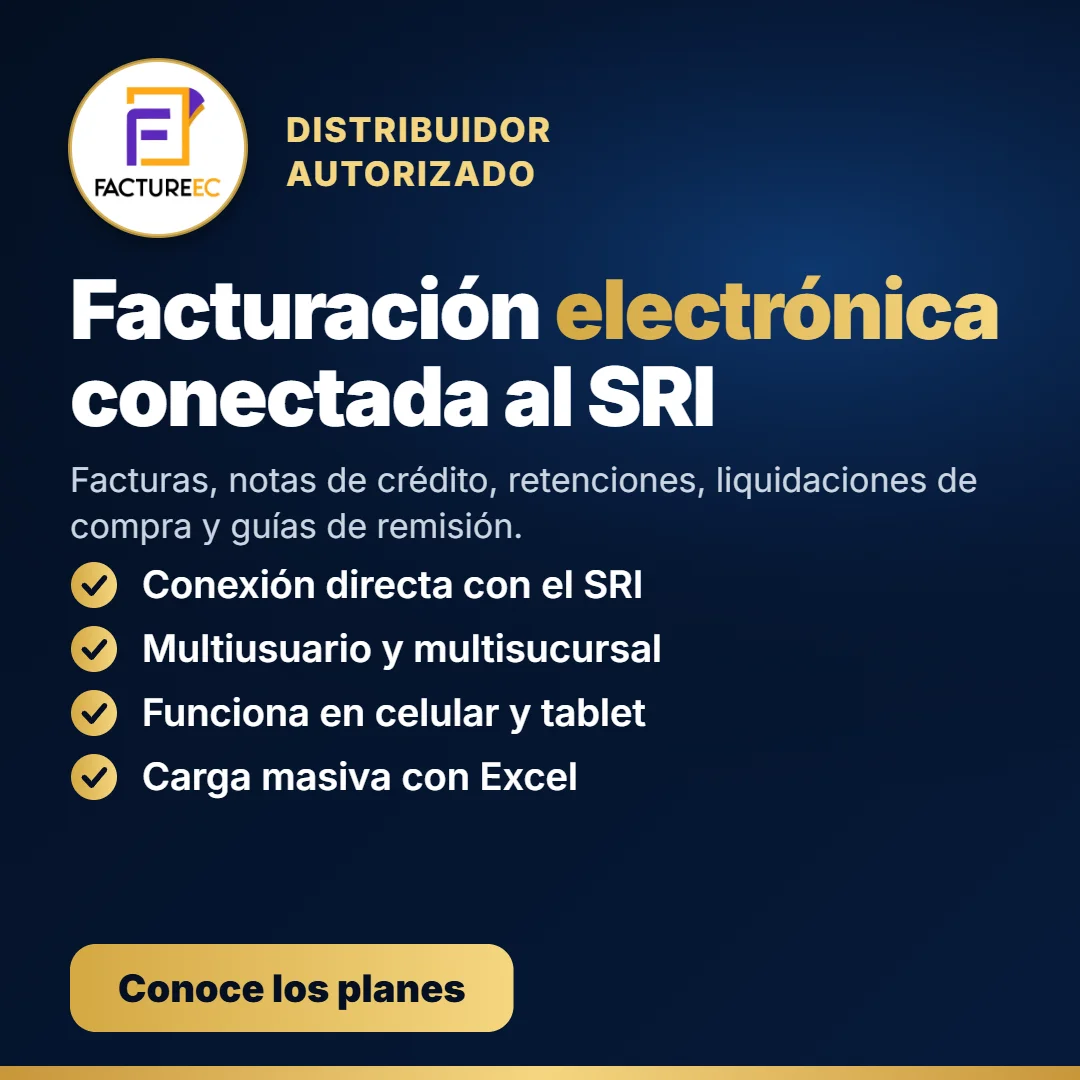
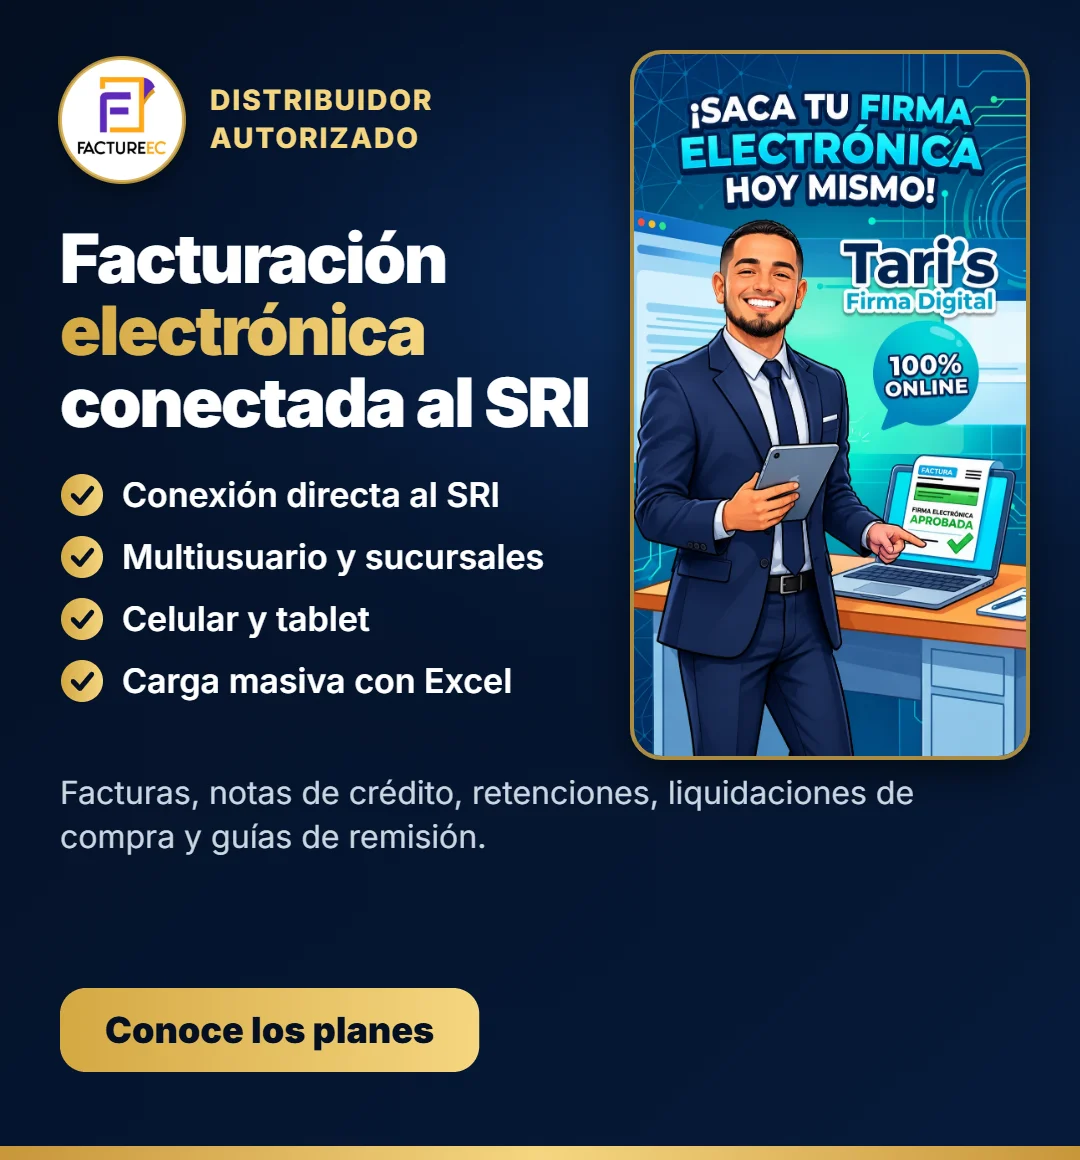
feat: add the character to the P12 and Factureec flyers, with a tablet image
Redesign the two last flyers with the full (uncropped) character image
and the same composition on every screen size: icon with "Distribuidor
autorizado", headline, checklist, character on the right and a button
row.

- img/flyers: new desktop, tablet and mobile images for firma-p12 and
  factureec-facturacion (all under 250 KB)
- script.js: optional flyer.imagenTablet; renderFlyerSlide adds a
  <source media="(max-width: 1024px)"> after the mobile one, and is now
  exported for tests
- tests: validate imagenTablet files and paths, and check the order of
  the mobile/tablet sources
- README: document imagenTablet

diff --git a/script.js b/script.js
@@ -114,6 +114,7 @@ const siteData = {
             id: 'firma-p12',
             tipo: 'informativo',
             imagen: 'img/flyers/firma-p12.webp',
+            imagenTablet: 'img/flyers/firma-p12-tablet.webp',
             imagenMovil: 'img/flyers/firma-p12-movil.webp',
             alt: 'Firma electrónica en archivo P12. Úsala para facturar, firmar documentos y hacer trámites en el SRI, Quipux y FirmaEC. Distribuidor autorizado.',
             destino: { tipo: 'pagina', pagina: 'firma.html#firma-electronica' }
@@ -122,6 +123,7 @@ const siteData = {
             id: 'factureec-facturacion',
             tipo: 'informativo',
             imagen: 'img/flyers/factureec-facturacion.webp',
+            imagenTablet: 'img/flyers/factureec-facturacion-tablet.webp',
             imagenMovil: 'img/flyers/factureec-facturacion-movil.webp',
             alt: 'Facturación electrónica conectada al SRI con Factureec: facturas, notas de crédito, retenciones y guías de remisión. Distribuidor autorizado.',
             destino: { tipo: 'pagina', pagina: 'facturacion.html#facturacion' }
@@ -1261,12 +1263,16 @@ function renderPromotionSlide({ promo, variantes }) {
  */
 function renderFlyerSlide({ flyer }, esPrimera) {
     const carga = esPrimera ? 'fetchpriority="high"' : 'loading="lazy"';
+    // El navegador usa la primera <source> que cumple: móvil (≤ 640 px), luego tablet (≤ 1024 px)
     const movil = flyer.imagenMovil
         ? `<source media="(max-width: 640px)" srcset="${escapeHtml(flyer.imagenMovil)}">`
         : '';
+    const tablet = flyer.imagenTablet
+        ? `<source media="(max-width: 1024px)" srcset="${escapeHtml(flyer.imagenTablet)}">`
+        : '';
     const imagen = `
             <picture>
-                ${movil}
+                ${movil}${tablet}
                 <img src="${escapeHtml(flyer.imagen)}" alt="${escapeHtml(flyer.alt)}" width="1920" height="600" ${carga} class="block w-full h-auto">
             </picture>`;
     const destino = flyer.destino;
@@ -1606,6 +1612,7 @@ if (typeof module !== 'undefined' && module.exports) {
         getActiveVariants,
         getActiveFlyers,
         isValidFlyerPage,
+        renderFlyerSlide,
         buildCarouselSlides,
         getNextIndex,
         formatSlideLabel,

diff --git a/tests/carousel.test.js b/tests/carousel.test.js
@@ -4,7 +4,7 @@
 const { test } = require('node:test');
 const assert = require('node:assert/strict');
 const {
-    siteData, buildCarouselSlides, getActiveFlyers, isValidFlyerPage, getNextIndex, formatSlideLabel
+    siteData, buildCarouselSlides, getActiveFlyers, isValidFlyerPage, getNextIndex, formatSlideLabel, renderFlyerSlide
 } = require('../script.js');
 
 const promo = siteData.promociones[0]; // 2026-11-09 → 2026-11-30
@@ -36,6 +36,22 @@ test('buildCarouselSlides: un destino fuera de la lista blanca se descarta y el 
     const externo = buildCarouselSlides([], flyers, vigente).find(d => d.flyer.id === 'externo');
     assert.equal(externo.flyer.destino, undefined);
     assert.equal(flyers[2].destino.pagina, 'https://otro.sitio', 'no modifica los datos originales');
+});
+
+test('renderFlyerSlide: usa la imagen móvil hasta 640 px, la de tablet hasta 1024 px y la de escritorio en lo demás', () => {
+    const flyer = { id: 'x', tipo: 'informativo', imagen: 'img/flyers/d.webp', imagenTablet: 'img/flyers/t.webp',
+        imagenMovil: 'img/flyers/m.webp', alt: 'Flyer de prueba con tres tamaños' };
+    const html = renderFlyerSlide({ flyer }, false);
+    const movil = html.indexOf('(max-width: 640px)" srcset="img/flyers/m.webp"');
+    const tablet = html.indexOf('(max-width: 1024px)" srcset="img/flyers/t.webp"');
+    assert.ok(movil !== -1 && tablet !== -1, 'faltan las fuentes móvil o tablet');
+    assert.ok(movil < tablet, 'la fuente móvil debe ir antes que la de tablet (el navegador usa la primera que cumple)');
+    assert.ok(html.includes('<img src="img/flyers/d.webp"'), 'la imagen de escritorio es el src');
+});
+
+test('renderFlyerSlide: sin imagenTablet no agrega la fuente de tablet', () => {
+    const flyer = { id: 'y', tipo: 'informativo', imagen: 'img/flyers/d.webp', imagenMovil: 'img/flyers/m.webp', alt: 'Flyer de prueba sin tablet' };
+    assert.ok(!renderFlyerSlide({ flyer }, false).includes('1024px'));
 });
 
 test('getActiveFlyers respeta inicio y fin en hora de Ecuador (data-model.md → Flyer.inicio, Flyer.fin)', () => {

diff --git a/tests/data.test.js b/tests/data.test.js
@@ -193,6 +193,7 @@ function problemasDeFlyer(flyer, ids) {
     if (!['promocion', 'informativo'].includes(flyer.tipo)) p.push(`${id}: tipo debe ser 'promocion' o 'informativo'`);
     if (!ruta.test(flyer.imagen || '')) p.push(`${id}: imagen debe estar en img/flyers/ y ser .webp, .avif o .svg`);
     if (flyer.imagenMovil !== undefined && !ruta.test(flyer.imagenMovil)) p.push(`${id}: imagenMovil inválida`);
+    if (flyer.imagenTablet !== undefined && !ruta.test(flyer.imagenTablet)) p.push(`${id}: imagenTablet inválida`);
     if (typeof flyer.alt !== 'string' || flyer.alt.length < 10 || flyer.alt.length > 200) p.push(`${id}: alt de 10 a 200 caracteres`);
     for (const campo of ['inicio', 'fin']) {
         if (flyer[campo] !== undefined && !FECHA.test(flyer[campo])) p.push(`${id}: ${campo} debe ser AAAA-MM-DD`);

diff --git a/tests/flyers.test.js b/tests/flyers.test.js
@@ -16,8 +16,8 @@ test('hay al menos un flyer informativo permanente (respaldo del carrusel sin Ja
 
 for (const flyer of siteData.flyers) {
     test(`flyer ${flyer.id}: imágenes WebP/AVIF/SVG existentes de ≤ 250 KB`, () => {
-        for (const campo of ['imagen', 'imagenMovil']) {
-            if (campo === 'imagenMovil' && flyer.imagenMovil === undefined) continue;
+        for (const campo of ['imagen', 'imagenTablet', 'imagenMovil']) {
+            if (campo !== 'imagen' && flyer[campo] === undefined) continue;
             const ruta = flyer[campo];
             assert.match(ruta, /^img\/flyers\/[a-z0-9-]+\.(webp|avif|svg)$/, `${campo}: ${ruta}`);
             const archivo = join(raiz, ruta);

diff --git a/README.md b/README.md
@@ -63,8 +63,9 @@ renderAttentionStatus(new Date('2026-11-28T14:30:00-05:00')); // otra hora para 
 El carrusel de la página principal muestra primero las promociones vigentes y después los
 flyers de `siteData.flyers`. Para publicar uno no hace falta tocar el HTML:
 
-1. **Prepara la imagen**: 1920×600 px para escritorio (y, si quieres, 1080×1080 px para móvil),
-   en **WebP** y de **250 KB como máximo**. Puedes convertirla con, por ejemplo, squoosh.app.
+1. **Prepara la imagen**: 1920×600 px para escritorio (y, si quieres, una versión para tablet,
+   de 641 a 1024 px de ancho, y otra para móvil, de hasta 640 px; pueden tener cualquier
+   proporción, por ejemplo 1080×1080 px), en **WebP** y de **250 KB como máximo**. Puedes convertirla con, por ejemplo, squoosh.app.
    **La imagen no puede llevar precios ni montos**: si la promoción tiene precio, agrégala en
    `siteData.promociones`, que genera su propia diapositiva con los precios del sitio.
 2. **Copia la imagen** a `img/flyers/`, con un nombre en minúsculas y guiones
@@ -76,6 +77,7 @@ flyers de `siteData.flyers`. Para publicar uno no hace falta tocar el HTML:
        id: 'feriado-diciembre',
        tipo: 'promocion',          // 'promocion' (inicio y fin obligatorios) o 'informativo'
        imagen: 'img/flyers/feriado-diciembre.webp',
+       imagenTablet: 'img/flyers/feriado-diciembre-tablet.webp', // opcional
        imagenMovil: 'img/flyers/feriado-diciembre-movil.webp',   // opcional
        alt: 'Atención especial en feriados de diciembre: escríbenos por WhatsApp',
        destino: { tipo: 'contacto', mensaje: 'Consulta por el flyer de feriados de diciembre' },  // opcional
